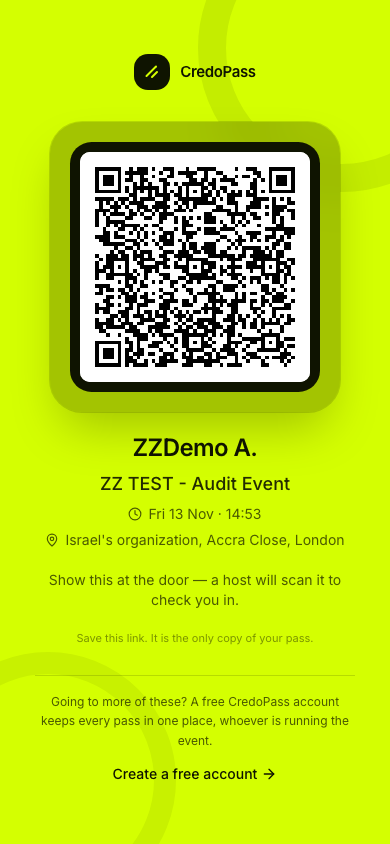
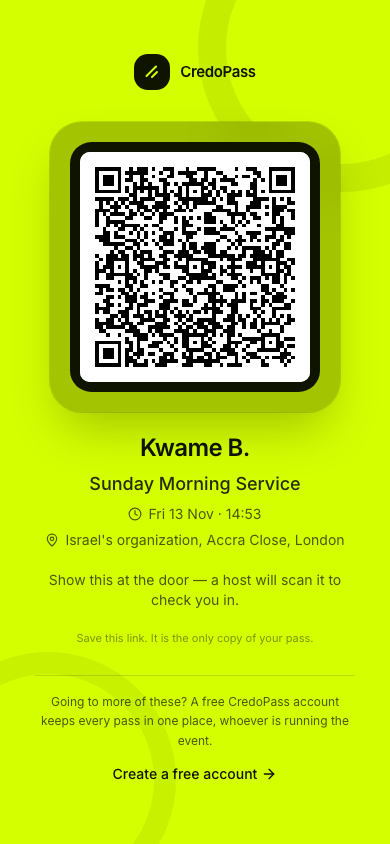
feat(website): all 18 screenshots captured; PUBLIC_APP_URL now defaults
Two corrections to the previous commit, both prompted by review.

PUBLIC_APP_URL no longer has to be set. There is one production web app and
its host is not a secret, so making the deployment restate a constant bought
nothing and guaranteed a failed deploy the first time someone forgot. It now
defaults to https://app.credopass.com under NODE_ENV=production and
localhost:5000 otherwise, with the variable as an override. No Coolify change
needed.

Screenshots: 18 of 19 screens captured, mobile. Only /invitations/$token is
missing, and it cannot be captured until U6 is fixed — the bug is blocking
its own screenshot.

Fixtures renamed out of "ZZ TEST" into Sunday Morning Service / Ama Mensah /
Kwame Boateng, because these images are published on the marketing site and
a page of test data reads as an unfinished product.

Dropped the separate "dashboard" entry: / redirects to /events, so there is
one landing screen, not two.

Renaming the fixtures turned up U7 — editing an attendee's email shows
"Attendee updated" and changes nothing, surviving a reload. The name saves in
the same request. Probably because the address lives on the identity row, but
the defect is the UI claiming a write that did not happen.

Changed region(s): [[0.2154, 0.4929, 0.7692, 0.5853]]

diff --git a/services/core/src/config/public-url.ts b/services/core/src/config/public-url.ts
@@ -15,38 +15,33 @@
  * Since no email exists yet (D18), the pass URL shown on screen is the ONLY
  * copy an attendee ever gets. A dead link there is a dead feature.
  *
- * WHAT IT IS NOW. A configured value. The app's public origin is deployment
- * knowledge — it cannot be derived from a request, and inferring it from
- * forwarded headers would mean trusting a header a client can set.
+ * WHAT IT IS NOW. A known constant per environment, overridable with
+ * PUBLIC_APP_URL. The app's public origin is deployment knowledge — it cannot
+ * be derived from a request, and inferring it from forwarded headers would
+ * mean trusting a header a client can set.
  */
 
-const FALLBACK_DEV_ORIGIN = 'http://localhost:5000';
+const DEV_ORIGIN = 'http://localhost:5000';
 
-let warned = false;
+/**
+ * There is one production web app and its host is not a secret or a surprise,
+ * so requiring the deployment to restate it buys nothing and costs a boot
+ * failure the first time someone forgets. The env var is the override, not the
+ * obligation.
+ */
+const PRODUCTION_ORIGIN = 'https://app.credopass.com';
 
 /**
  * The public origin of the web app, with no trailing slash.
  *
- * Unset in development: falls back to the Vite dev server and warns once.
- * Unset anywhere else: throws. Silently emitting a wrong link is the bug.
+ * `PUBLIC_APP_URL` wins when set. Otherwise: the deployed app in production,
+ * the Vite dev server everywhere else.
  */
 export function publicAppUrl(): string {
   const raw = process.env.PUBLIC_APP_URL?.trim();
 
   if (!raw) {
-    if (process.env.NODE_ENV === 'production') {
-      throw new Error(
-        'PUBLIC_APP_URL is not set. Pass links would point at the API host and 404. ' +
-          'Set it to the origin of the web app, e.g. https://app.credopass.com'
-      );
-    }
-    if (!warned) {
-      warned = true;
-      console.warn(
-        `⚠  PUBLIC_APP_URL is not set — pass links will use ${FALLBACK_DEV_ORIGIN}`
-      );
-    }
-    return FALLBACK_DEV_ORIGIN;
+    return process.env.NODE_ENV === 'production' ? PRODUCTION_ORIGIN : DEV_ORIGIN;
   }
 
   let parsed: URL;
@@ -62,9 +57,8 @@ export function publicAppUrl(): string {
 }
 
 /**
- * Called at boot so a misconfigured deployment fails on startup rather than on
- * the first registration — the same reason the route registry is asserted
- * there.
+ * Called at boot so a malformed override fails on startup rather than on the
+ * first registration.
  */
 export function assertPublicAppUrl(): void {
   publicAppUrl();

diff --git a/apps/website/src/pages/how-to/screens.ts b/apps/website/src/pages/how-to/screens.ts
@@ -54,15 +54,6 @@ export const SCREENS: readonly Screen[] = [
     note: 'There is no separate onboarding step and no password to forget. Your first sign-in commissions an organisation for you.',
   },
   {
-    id: 'dashboard',
-    path: '/',
-    title: 'Dashboard',
-    purpose: 'Where you land. Today at a glance, and the way in to everything else.',
-    actions: ['See upcoming events', 'Jump to an event', 'Open the command palette with ⌘K'],
-    group: 'Getting started',
-    auth: 'org',
-  },
-  {
     id: 'command-palette',
     path: '/',
     title: 'Command palette',
@@ -77,11 +68,19 @@ export const SCREENS: readonly Screen[] = [
   {
     id: 'events',
     path: '/events',
-    title: 'Events',
-    purpose: 'Every event you run, past and upcoming.',
-    actions: ['Filter by status', 'Open an event', 'Create a new one'],
+    title: 'Events — where you land',
+    purpose:
+      'The home screen. What is next, what is running now, and everything you have already run.',
+    actions: [
+      'See what is up next',
+      'Check in guests straight from the card',
+      'Filter upcoming or past',
+      'Switch to calendar view',
+      'Create a new event',
+    ],
     group: 'Events',
     auth: 'org',
+    note: 'Signing in takes you here — / redirects to /events. There is no separate dashboard.',
   },
   {
     id: 'event-new',

diff --git a/docs/NEXT-UI-LIST.md b/docs/NEXT-UI-LIST.md
@@ -126,16 +126,17 @@ Needs a deploy-config change (the variable must be set in Coolify) as well as th
 Invitation links are **not** affected — the client builds `/invitations/$token` against its own
 origin.
 
-**Fixed 2026-11-06.** `services/core/src/config/public-url.ts` reads `PUBLIC_APP_URL` and both call
-sites use it. Unset in development it falls back to `http://localhost:5000` and warns once; unset
-with `NODE_ENV=production` the service **refuses to start** (`assertPublicAppUrl()` next to
-`assertRouteRegistryComplete()` in `src/index.ts`), because a service that boots and then hands out
-dead links is worse than one that does not boot. `X-Forwarded-Proto` is deliberately *not* read — it
-is a client-settable header, and the app's origin is deployment knowledge, not request knowledge.
+**Fixed 2026-11-06.** `services/core/src/config/public-url.ts` holds the app origin and both call
+sites use it: `https://app.credopass.com` under `NODE_ENV=production`, `http://localhost:5000`
+otherwise, with `PUBLIC_APP_URL` as an override. There is one production web app and its host is
+not a surprise, so requiring the deployment to restate it would buy nothing and cost a boot failure
+the first time someone forgot.
 
-**Still to do by hand:** set `PUBLIC_APP_URL=https://app.credopass.com` in Coolify before the next
-deploy, or the service will not start. Passes already issued stay dead — their URL was stored
-nowhere, only printed, so there is nothing to backfill.
+`X-Forwarded-Proto` is deliberately *not* read — it is a client-settable header, and it would fix
+the scheme while leaving the host wrong.
+
+**No deploy-config change needed.** Passes already issued stay dead — their URL was stored nowhere,
+only printed, so there is nothing to backfill.
 
 ### U6 🔴 A pending invitation's link cannot be recovered · S — **CONFIRMED 2026-11-06**
 
@@ -161,6 +162,22 @@ credential, so three options, in order of preference:
 
 Until one of those lands, `Invite` creates something that only works if you copy the link in the
 same breath — which is not stated anywhere.
+
+### U7 🔴 Editing an attendee's email reports success and changes nothing · S — **CONFIRMED 2026-11-06**
+
+On `/attendees/$personId/edit`, change the email, press `Save changes`. The app shows
+`Attendee updated`, returns to the list, and the old address is still there — after a full reload,
+so it is not a cache.
+
+The name saves fine on the same form, in the same request. Only the email is dropped.
+
+Most likely cause: the address lives on the **identity** row, not the person row (`CLAUDE.md`
+gotchas — "`accounts.email` is a MIRROR of what the provider asserted … the address always lands on
+the identity row"), so the update has nowhere valid to go and is being ignored silently.
+
+Whatever the cause, the UI claiming success for a write that did not happen is the defect. Either
+persist it, or make the field read-only and say why — the same way the profile tab already says
+`Read-only for now — editing your profile isn't built yet`.
 
 ### U3 ⬜ Audit every screen in a browser · M
 

diff --git a/docs/REBUILD-LOG.md b/docs/REBUILD-LOG.md
@@ -936,19 +936,21 @@ is reached over plain http on a host the developer also runs the app on:
 Because no email exists yet (D18), the printed URL is the only copy of a pass anyone ever gets. The
 single artefact this product exists to hand an attendee was a dead link in production.
 
-**D41 — a user-facing origin is configuration, not something to infer from a request.**
-`services/core/src/config/public-url.ts` reads `PUBLIC_APP_URL`; `attendance.ts` and `public.ts` call
-`publicAppUrl()`. Unset in development it falls back to `http://localhost:5000` and warns once;
-unset under `NODE_ENV=production` the service refuses to boot, asserted next to
-`assertRouteRegistryComplete()`. A service that starts and then hands out dead links is worse than
-one that does not start.
+**D41 — a user-facing origin is deployment knowledge, not something to infer from a request.**
+`services/core/src/config/public-url.ts` holds it; `attendance.ts` and `public.ts` call
+`publicAppUrl()`. It is `https://app.credopass.com` under `NODE_ENV=production` and
+`http://localhost:5000` otherwise, with `PUBLIC_APP_URL` as an override.
+
+The first cut made the variable mandatory and refused to boot without it. That was wrong: there is
+one production web app, its host is not a secret, and making the deployment restate a constant buys
+nothing while guaranteeing a failed deploy the first time someone forgets. A known default with an
+override is the same safety for none of the cost.
 
 `X-Forwarded-Proto` was considered and rejected. It would fix the scheme and leave the host wrong,
 and it is a header a client can set — trusting it to build a credential-bearing URL trades one bug
 for a worse one.
 
-**Not done by code:** `PUBLIC_APP_URL=https://app.credopass.com` has to be set in Coolify before the
-next deploy. Passes already issued cannot be repaired; their URL was never stored, only printed.
+Passes already issued cannot be repaired; their URL was never stored, only printed.
 
 Found during the same walk and filed rather than fixed: `docs/UI-REDESIGN.md` R1–R5 (the app scrolls
 an inner box rather than the document, loading states render as confident content), and U2 looking
@@ -966,6 +968,14 @@ Google being the only sign-in means a headless run cannot log in, so the session
 hand (`nx run website:shots:login`) into a gitignored `.auth/state.json` and reused. Public screens
 are deliberately captured in a **separate anonymous context** — a public page has to be proved to
 work with no session, and shooting it signed in would hide exactly the bug worth catching.
+
+18 of the 19 screens were captured on 2026-11-06. Only `/invitations/$token` is missing, because
+U6 means no invitation link can be recovered to point it at — the bug is blocking its own
+screenshot.
+
+The fixtures were renamed out of `ZZ TEST` and into `Sunday Morning Service`, `Ama Mensah` and
+`Kwame Boateng`, because the screenshots are published on the marketing site and a page of test
+data reads as an unfinished product. Renaming them turned up U7.
 
 ---
 

diff --git a/docs/README.md b/docs/README.md
@@ -39,6 +39,7 @@ Nothing is "in progress" unless someone is actually working on it today.
 | ⬜ | No data migration from the pre-rewrite `users` table | [`DATABASE-MIGRATION.md`](DATABASE-MIGRATION.md) §5.4 | M |
 | ⬜ | `/analytics` draws the full dashboard from placeholder numbers, under a "these are made up" banner | [`NEXT-UI-LIST.md`](NEXT-UI-LIST.md) U1 | S |
 | 🔴 | Pending invitations show `link not shown`, and there is no email — the link is unrecoverable | [`NEXT-UI-LIST.md`](NEXT-UI-LIST.md) U6 | S |
+| 🔴 | Editing an attendee's email says "updated" and changes nothing | [`NEXT-UI-LIST.md`](NEXT-UI-LIST.md) U7 | S |
 | ⬜ | QR scan check-in is reported broken, never reproduced | [`NEXT-UI-LIST.md`](NEXT-UI-LIST.md) U2 | M |
 | ⬜ | A check-in does not reach other screens — polling, then SSE | [`LIVE-UPDATES.md`](LIVE-UPDATES.md) | M→L |
 | ⬜ | No email exists. Pass and invitation links must be shown on screen | [`API-FIRST-REBUILD.md`](API-FIRST-REBUILD.md) D18 | M |

diff --git a/docs/UI-REDESIGN.md b/docs/UI-REDESIGN.md
@@ -466,3 +466,13 @@ The "add attendee" two-second gap with a stale sheet (§3.13), the greeting that
 `Good afternoon, there`, and `0 events` while loading. It is the single most repeated defect in the
 product and it is one decision, not three fixes: **a screen must never render a value it does not
 have.**
+
+### 3.21 Two more defects found while preparing the screenshots
+
+- **Editing an attendee's email reports success and changes nothing** (filed as
+  `NEXT-UI-LIST.md` U7). The name saves in the same request; only the email is dropped, and the
+  toast says `Attendee updated` either way.
+- **The command palette offers `Sign In` while you are signed in.** It sits in `QUICK ACTIONS`
+  above `New Event` and `Add Attendee`.
+- **A person's email is masked in the detail sheet (`••••••com`, `TAP TO COPY`) and shown in full
+  in the list behind it.** One of the two is wrong; the list is the one more people see.

diff --git a/apps/website/README.md b/apps/website/README.md
@@ -73,6 +73,9 @@ nx run website:shots                    # headless, writes public/how-to/*.png
   catching.
 - `--only=id,id` captures a subset, `--mobile-only` skips the desktop pass.
 
-**Before this page ships publicly:** the pass and public-event shots are currently taken from a
-real event. Point `capture.config.json` at a seeded local event first, or the site publishes a
-scannable QR for a live pass.
+**Note on the published images:** the pass and public-event shots are taken from a real event, so
+the pass image contains a scannable QR for a live pass. It is a demo event with no real attendees,
+but point `capture.config.json` at a seeded local event if you would rather it were not.
+
+`/invitations/$token` has no screenshot, and cannot have one until `NEXT-UI-LIST.md` U6 is fixed —
+no invitation link can be recovered to point the capture at.
